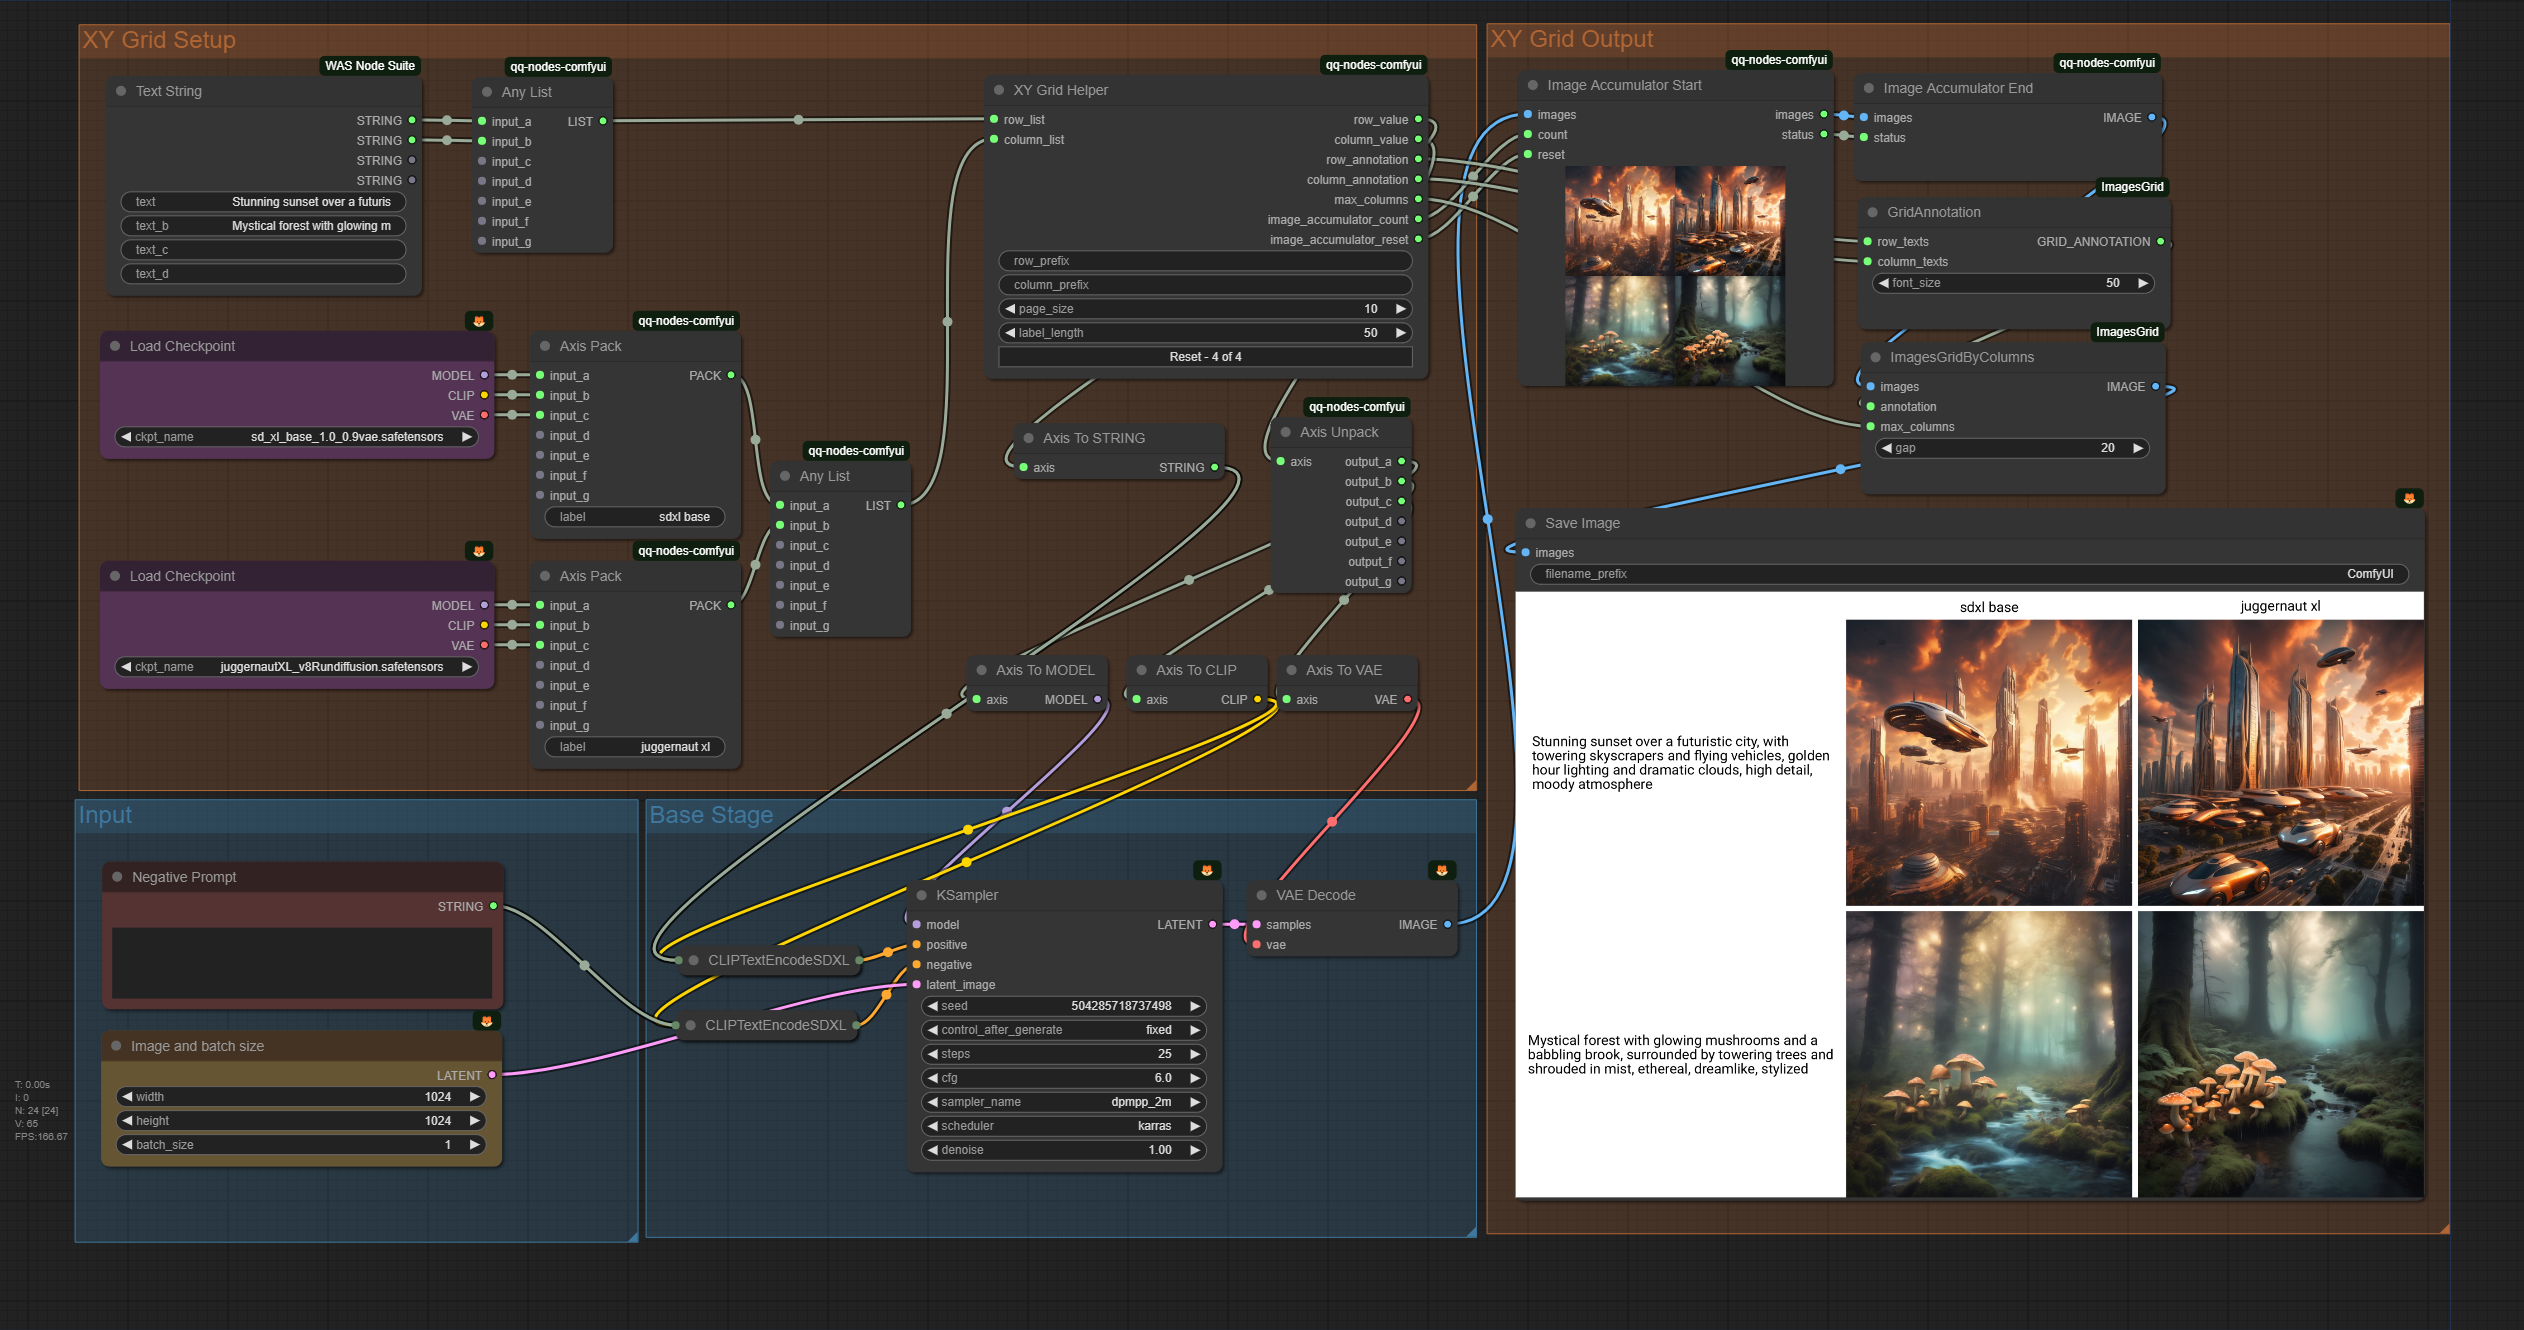
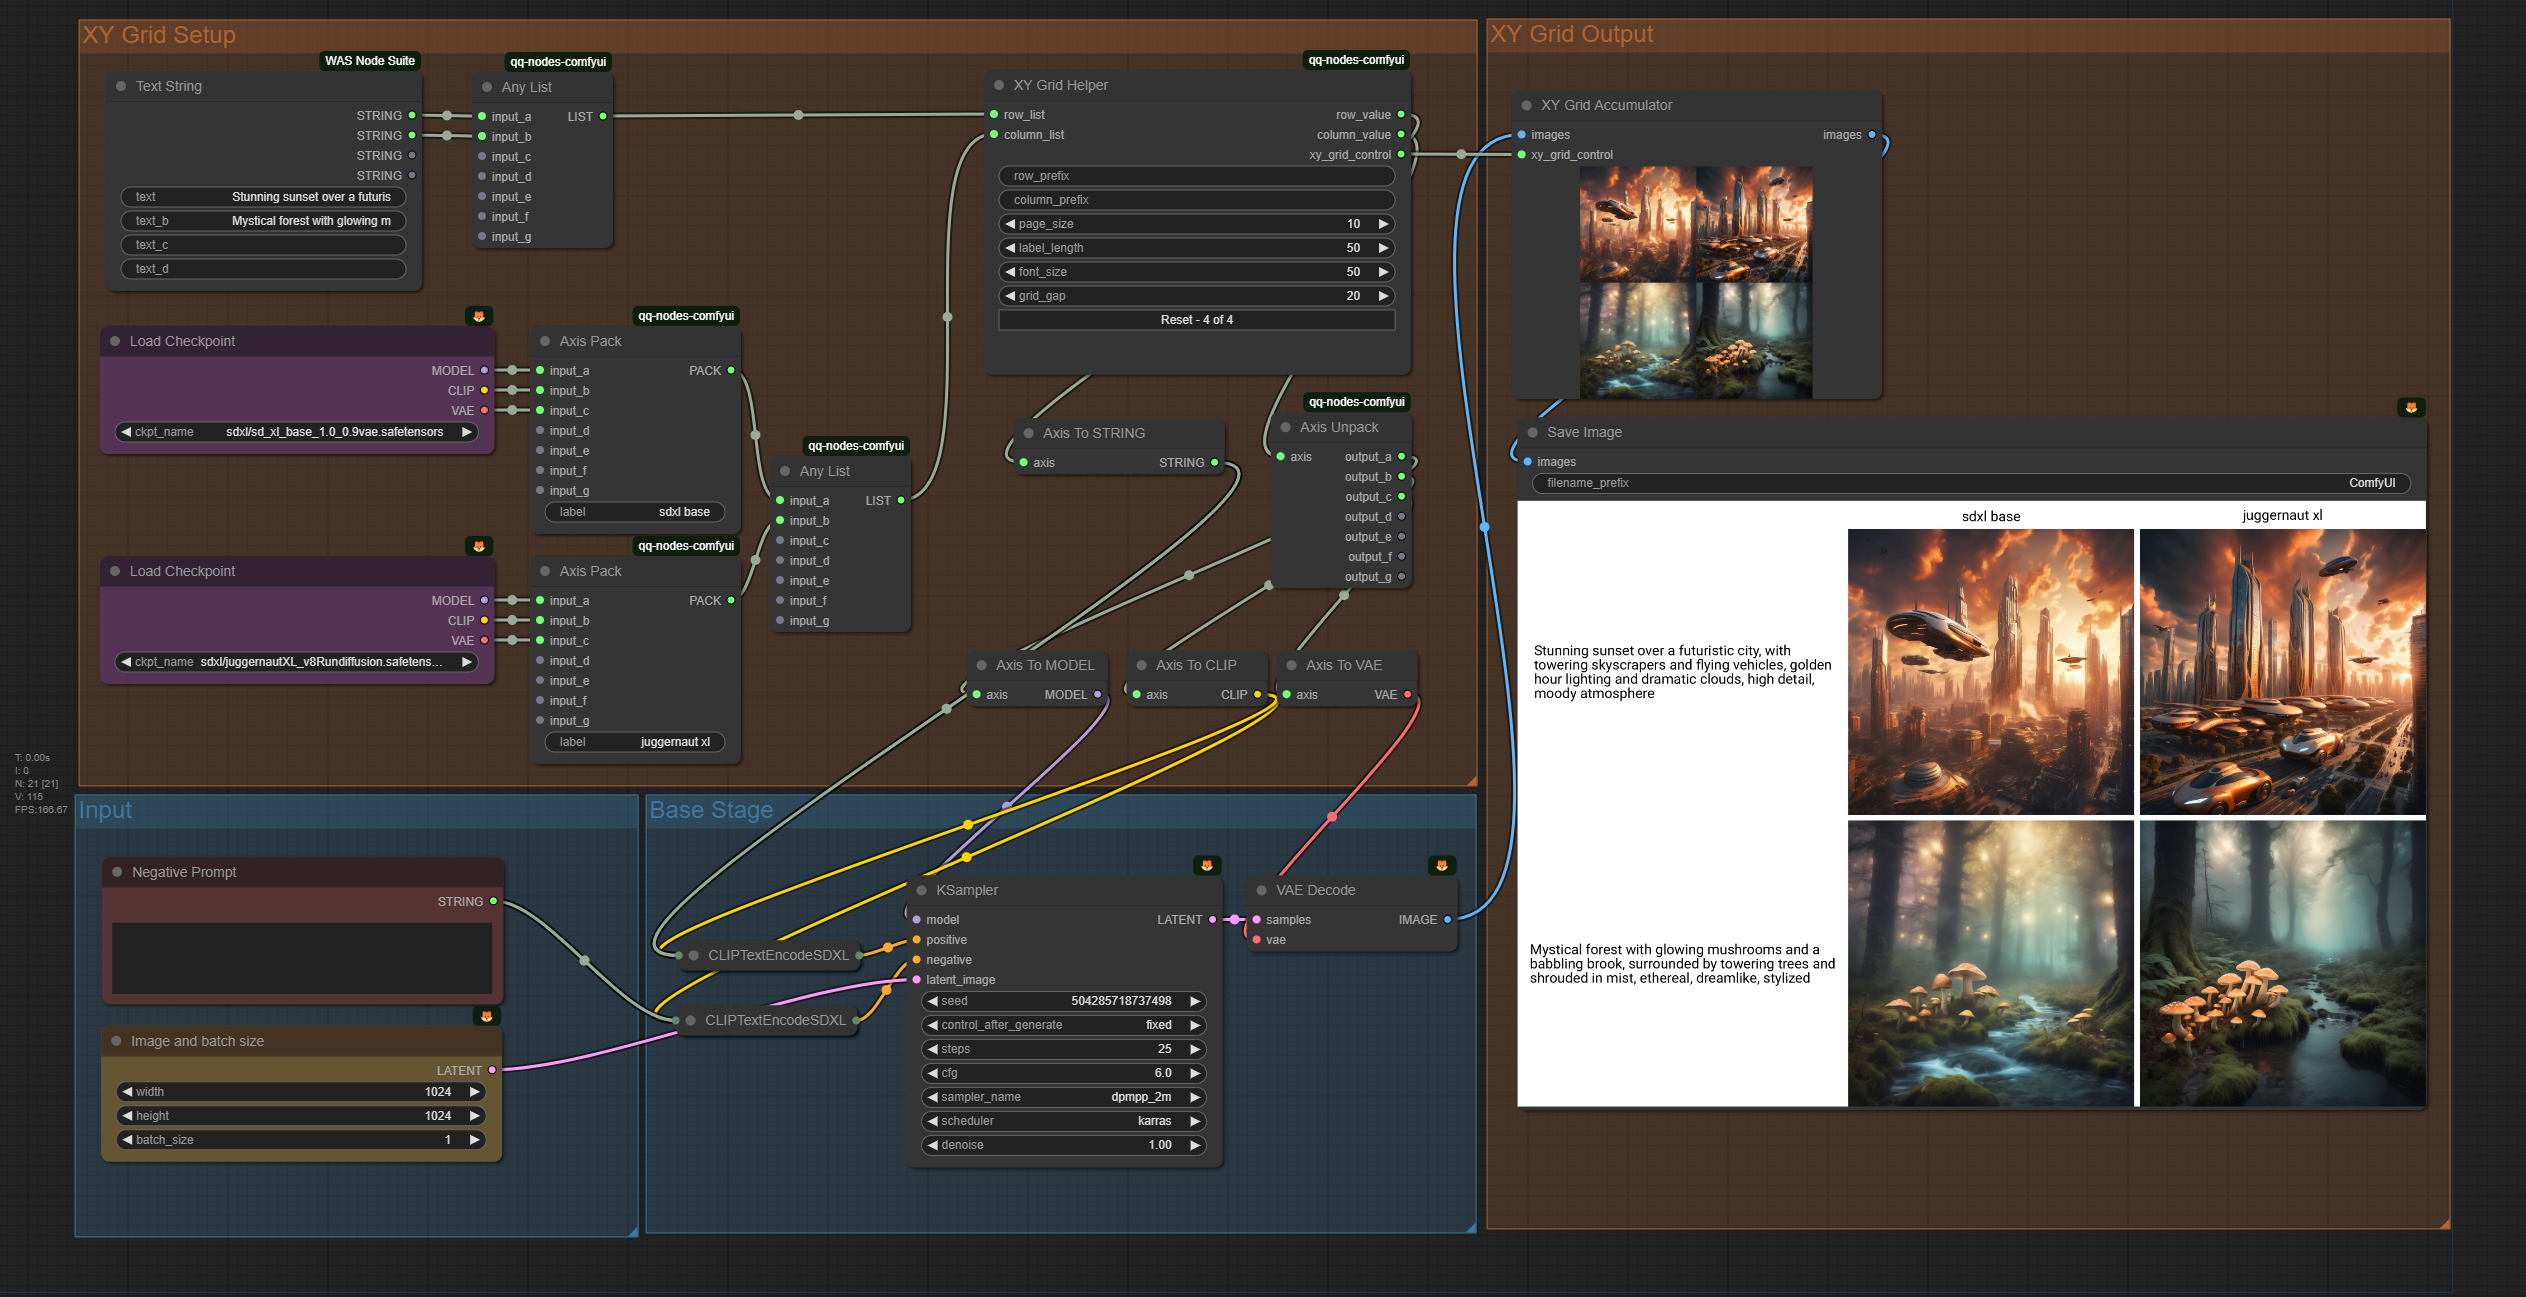
breaking change: simplify grid setup by using the new comfy features from the execution model inversion the image accumulator nodes have been combined and renamed as we can now handle everything in a single node with the new execution blocker support in comfy manually setting up the GridAnnotation a

diff --git a/nodes.py b/nodes.py
@@ -1,5 +1,5 @@
-from comfy.model_management import InterruptProcessingException
-from comfy.model_patcher import ModelPatcher
+from comfy_execution.graph_utils import GraphBuilder
+from comfy_execution.graph import ExecutionBlocker
 import torch
 import os
 import hashlib
@@ -10,14 +10,17 @@ import numpy as np
 import torchvision.transforms as transforms
 import json
 
+
 class AnyType(str):
     def __ne__(self, __value: object) -> bool:
         return False
-    
+
+
 class PackedAxisItem:
     def __init__(self, label, value):
         self.label = label
         self.value = value
+
 
 class FeedbackNode:
     def __init__(self):
@@ -72,28 +75,34 @@ class FeedbackNode:
 
         return image_tensor
 
-class ImageAccumulatorStart(FeedbackNode):
+
+class XYGridAccumulator(FeedbackNode):
+
+    @classmethod
+    def IS_CHANGED(cls, images, xy_grid_control, unique_id):
+        return images, xy_grid_control, unique_id
 
     @classmethod
     def INPUT_TYPES(cls):
         return {
             "required": {
                 "images": ("IMAGE",),
-                "count": ("INT", {"default": 1}),
+                "xy_grid_control": ("XY_GRID_CONTROL",),
             },
-            "optional": {
-                "reset": ("INT", {"default": 1}),
+            "hidden": {
+                "unique_id": "UNIQUE_ID",
             }
         }
 
-    RETURN_TYPES = ("IMAGE", "IMAGE_ACCUMULATOR_STATUS")
-    RETURN_NAMES = ("images", "status")
+    RETURN_TYPES = ("IMAGE",)
+    RETURN_NAMES = ("images",)
     FUNCTION = "run"
-    CATEGORY = "QQNodes/Image"
+    CATEGORY = "QQNodes/XYGrid"
 
     image_batch = torch.Tensor()
 
-    def run(self, images, count, reset):
+    def run(self, images, xy_grid_control, unique_id):
+        count, reset, row_texts, column_texts, max_columns, font_size, grid_gap = xy_grid_control
         if reset == 0:
             self.image_batch = torch.Tensor()
         total_images = torch.cat((self.image_batch, images))
@@ -107,30 +116,19 @@ class ImageAccumulatorStart(FeedbackNode):
         image_list = [processed_images[i]
                       for i in range(processed_images.shape[0])]
         ui_result = self.preview_images(image_list)
-        return {"result": (image_list, len(image_list) >= count), "ui": {"images": ui_result}}
-
-
-class ImageAccumulatorEnd(FeedbackNode):
-
-    @classmethod
-    def INPUT_TYPES(cls):
-        return {
-            "required": {
-                "images": ("IMAGE",),
-                "status": ("IMAGE_ACCUMULATOR_STATUS",),
-            },
-        }
-
-    RETURN_TYPES = "IMAGE",
-    FUNCTION = "run"
-    OUTPUT_NODE = True
-    CATEGORY = "QQNodes/Image"
-
-    def run(self, images, status):
-        if not status:
-            raise InterruptProcessingException()
+        if len(image_list) < count:
+            return {"result": (ExecutionBlocker(None),), "ui": {"images": ui_result}}
         else:
-            return (images,)
+            graph = GraphBuilder()
+            grid_annotation_node = graph.node(
+                "GridAnnotation", row_texts=row_texts, column_texts=column_texts, font_size=font_size)
+            images_grid_by_columns_node = graph.node(
+                "ImagesGridByColumns", images=image_list, annotation=grid_annotation_node.out(0), max_columns=max_columns, gap=grid_gap)
+            return {
+                "result": (images_grid_by_columns_node.out(0),),
+                "ui": {"images": ui_result},
+                "expand": graph.finalize()
+            }
 
 
 class AnyList:
@@ -173,7 +171,8 @@ class AnyList:
             input_list.append(input_g)
 
         return (input_list,)
-    
+
+
 class AnyListIterator:
     @classmethod
     def INPUT_TYPES(cls):
@@ -190,8 +189,9 @@ class AnyListIterator:
 
     def run(self, counter, list):
         return (list[counter % len(list)],)
-    
-class AxisPack: 
+
+
+class AxisPack:
     @classmethod
     def INPUT_TYPES(cls):
         return {
@@ -229,9 +229,10 @@ class AxisPack:
             input_list.append(input_f)
         if input_g:
             input_list.append(input_g)
-        
+
         return (PackedAxisItem(label, input_list),)
-    
+
+
 class AxisUnpack:
     @classmethod
     def INPUT_TYPES(cls):
@@ -241,7 +242,8 @@ class AxisUnpack:
             },
         }
     RETURN_TYPES = tuple("AXIS_VALUE" for _ in range(7))
-    RETURN_NAMES = tuple("output_" + chr(i) for i in range(ord('a'), ord('a') + 7))
+    RETURN_NAMES = tuple("output_" + chr(i)
+                         for i in range(ord('a'), ord('a') + 7))
     FUNCTION = "run"
 
     CATEGORY = "QQNodes/XYGrid Axis"
@@ -249,6 +251,7 @@ class AxisUnpack:
     def run(self, axis):
         padding = [None, ] * (7 - len(axis.value))
         return tuple(axis.value + padding)
+
 
 class LoadLinesFromTextFile:
     @classmethod
@@ -291,12 +294,13 @@ class LoadLinesFromTextFile:
         if not folder_paths.exists_annotated_filepath(file):
             return "Invalid text file: {}".format(file)
         return True
-    
+
     @classmethod
     def IS_CHANGED(cls, file):
         file_path = folder_paths.get_annotated_filepath(file)
         return cls.getFileHash(file_path)
-    
+
+
 class TextSplitter:
     @classmethod
     def INPUT_TYPES(cls):
@@ -328,14 +332,14 @@ class XYGridHelper():
                 "column_prefix": ("STRING", {"default": ""}),
                 "page_size": ("INT", {"default": 10}),
                 "label_length": ("INT", {"default": 50}),
-                "index": ("QQINDEX", {} )
+                "font_size": ("INT", {"default": 50}),
+                "grid_gap": ("INT", {"default": 20}),
+                "index": ("QQINDEX", {})
             }
         }
 
-    RETURN_TYPES = ("AXIS_VALUE", "AXIS_VALUE", "STRING",
-                    "STRING", "INT", "INT", "INT")
-    RETURN_NAMES = ("row_value", "column_value", "row_annotation", "column_annotation",
-                    "max_columns", "image_accumulator_count", "image_accumulator_reset")
+    RETURN_TYPES = ("AXIS_VALUE", "AXIS_VALUE", "XY_GRID_CONTROL")
+    RETURN_NAMES = ("row_value", "column_value", "xy_grid_control")
     FUNCTION = "run"
     CATEGORY = "QQNodes/XYGrid"
 
@@ -343,31 +347,31 @@ class XYGridHelper():
     def IS_CHANGED(cls, **kwargs):
         return float("NaN")
 
-    def run(self, row_list, column_list, row_prefix, column_prefix, page_size, label_length, index):
+    def run(self, row_list, column_list, row_prefix, column_prefix, page_size, label_length, font_size, grid_gap, index):
         total_grid_images = len(row_list) * len(column_list)
         adjusted_index = index % total_grid_images
 
         row_index = adjusted_index // len(column_list) % len(row_list)
         page_index = row_index // page_size
         images_pr_page = page_size * len(column_list)
-        row_annotation = ";".join([self.insert_newline_on_word_boundaries(self.format_prefix(row_prefix, self.get_label(x)), label_length) for x in row_list[page_index * page_size : (page_index + 1) * page_size]])
-        column_annotation = ";".join([self.insert_newline_on_word_boundaries(self.format_prefix(column_prefix, self.get_label(y)), label_length) for y in column_list])
+        row_annotation = ";".join([self.insert_newline_on_word_boundaries(self.format_prefix(row_prefix, self.get_label(
+            x)), label_length) for x in row_list[page_index * page_size: (page_index + 1) * page_size]])
+        column_annotation = ";".join([self.insert_newline_on_word_boundaries(
+            self.format_prefix(column_prefix, self.get_label(y)), label_length) for y in column_list])
+        xy_grid_control = (min(images_pr_page, total_grid_images - page_index * page_size), adjusted_index %
+                           images_pr_page, row_annotation, column_annotation, len(column_list), font_size, grid_gap)
         return {"result": (
             row_list[row_index],
             column_list[adjusted_index % len(column_list)],
-            row_annotation,
-            column_annotation,  
-            len(column_list),
-            min(images_pr_page, total_grid_images - page_index * page_size),
-            adjusted_index % images_pr_page
+            xy_grid_control,
         ), "ui": {"total_images": [total_grid_images]}}
-    
+
     def get_label(self, item):
         if isinstance(item, PackedAxisItem):
             return item.label
         else:
             return str(item)
-        
+
     def format_prefix(self, prefix, text):
         if prefix:
             return f"{prefix}: {text}"
@@ -379,7 +383,7 @@ class XYGridHelper():
             return input_string[:length - 3] + '...'
         else:
             return input_string
-    
+
     def insert_newline_on_word_boundaries(self, input_string, length=50):
         # Initialize the result string and the current index
         result = ""
@@ -390,11 +394,11 @@ class XYGridHelper():
             if current_index + length >= len(input_string):
                 result += input_string[current_index:]
                 break
-            
+
             # Find the nearest space before the next cut-off point
             next_cutoff = current_index + length
             space_index = input_string.rfind(' ', current_index, next_cutoff)
-            
+
             # If a space is found, and it's not just the first character (avoiding leading spaces)
             if space_index > current_index:
                 # Add the substring up to the space and a newline
@@ -426,7 +430,8 @@ class SliceList:
 
     def run(self, list, start, end):
         return (list[start:end],)
-    
+
+
 class AnyToAny:
     @classmethod
     def INPUT_TYPES(cls):
@@ -442,7 +447,8 @@ class AnyToAny:
 
     def run(self, any):
         return (any,)
-    
+
+
 class AxisBase:
     @classmethod
     def INPUT_TYPES(cls):
@@ -451,22 +457,25 @@ class AxisBase:
                 "axis": ("AXIS_VALUE",),
             }
         }
-    
+
     FUNCTION = "run"
     CATEGORY = "QQNodes/XYGrid Axis"
 
     def run(self, axis):
         return (axis,)
-    
+
+
 class AxisToAny(AxisBase):
     RETURN_TYPES = (AnyType("*"),)
+
 
 def create_axis_class(name):
     class_dict = {
         'RETURN_TYPES': (name,),
     }
-    
+
     return type(f"AxisTo{name}", (AxisBase,), class_dict)
+
 
 def load_axis_config_and_create_classes(node_map, config_file):
     dir_path = os.path.dirname(os.path.realpath(__file__))
@@ -476,7 +485,7 @@ def load_axis_config_and_create_classes(node_map, config_file):
 
     if not isinstance(config, list):
         raise ValueError("Axis config must be a json list")
-    
+
     for axis_config in config:
         cls = create_axis_class(axis_config)
         globals()[axis_config] = cls
@@ -486,10 +495,9 @@ def load_axis_config_and_create_classes(node_map, config_file):
 NODE_CLASS_MAPPINGS = {
     "Any List": AnyList,
     "Any List Iterator": AnyListIterator,
-    "Image Accumulator Start": ImageAccumulatorStart,
-    "Image Accumulator End": ImageAccumulatorEnd,
     "Load Lines From Text File": LoadLinesFromTextFile,
     "XY Grid Helper": XYGridHelper,
+    "XY Grid Accumulator": XYGridAccumulator,
     "Slice List": SliceList,
     "Axis Pack": AxisPack,
     "Axis Unpack": AxisUnpack,
@@ -499,4 +507,5 @@ NODE_CLASS_MAPPINGS = {
 }
 
 load_axis_config_and_create_classes(NODE_CLASS_MAPPINGS, "axis-config.json")
-load_axis_config_and_create_classes(NODE_CLASS_MAPPINGS, "custom-axis-config.json")
+load_axis_config_and_create_classes(
+    NODE_CLASS_MAPPINGS, "custom-axis-config.json")

diff --git a/README.md b/README.md
@@ -6,8 +6,8 @@ Clone repo into your custom_nodes folder in comfyui
 
 ## XY Grid
 Required custom mode packages
-* https://github.com/LEv145/images-grid-comfy-plugin
-* https://github.com/WASasquatch/was-node-suite-comfyui ( for this specific workflow example, can be used without it)
+* https://github.com/LEv145/images-grid-comfy-plugin ( used behind the scene through node expansion )
+* https://github.com/WASasquatch/was-node-suite-comfyui ( for this specific workflow example, can be used without it )
 
 ### Workflow example
 XY Grid over prompt and cfg value
@@ -31,7 +31,7 @@ If you want to use other input/output types then the ones already supported by t
 
 #### XY Grid Helper
 
-![Image](https://github.com/kenjiqq/qq-nodes-comfyui/blob/main/assets/xy-grid-helper.jpg?raw=true)
+![Image](https://github.com/kenjiqq/qq-nodes-comfyui/blob/main/assets/xy-grid-helper.png?raw=true)
 
 The node takes in a LIST for the row values and column values each and will iterate through each combination of them. To be able to use the row and column value output since the type of them are unknown one of the "Axis To X" nodes has to be used to convert to the correct type that can be connected to whatever other node you want to send the values to. 
 
@@ -45,13 +45,19 @@ The node takes in a LIST for the row values and column values each and will iter
 
 "label_length" sets the max character length before the label will be broken into multiple lines
 
+"font_size" font size for the labels of the grid axis
+
+"grid_gap" size of the gap between images in the grid
+
 Click the reset button before starting a new run to make a XY grid, as you queue up prompts it will show how many images need to be queued to finish the grid
 
-#### Image Accumulator
+#### XY Grid Accumulator
 
-![Image](https://github.com/kenjiqq/qq-nodes-comfyui/blob/main/assets/image-accumulator.png?raw=true)
+![Image](https://github.com/kenjiqq/qq-nodes-comfyui/blob/main/assets/xy-grid-accumulator.png?raw=true)
 
-Image Accumulator Start and Image Accumulator End must always be used together so the node is able to stop the execution of the downstream connected nodes until the grid is finished.
+Accumulates images for the grid and stop the execution of the downstream connected nodes until the grid is finished.
+
+Uses node expansion to inject the images-grid-comfy-plugin nodes behind the scene to generate the grid.
 
 As images are generated the node will show a preview of all images generated so far so you can inspect them.
 
